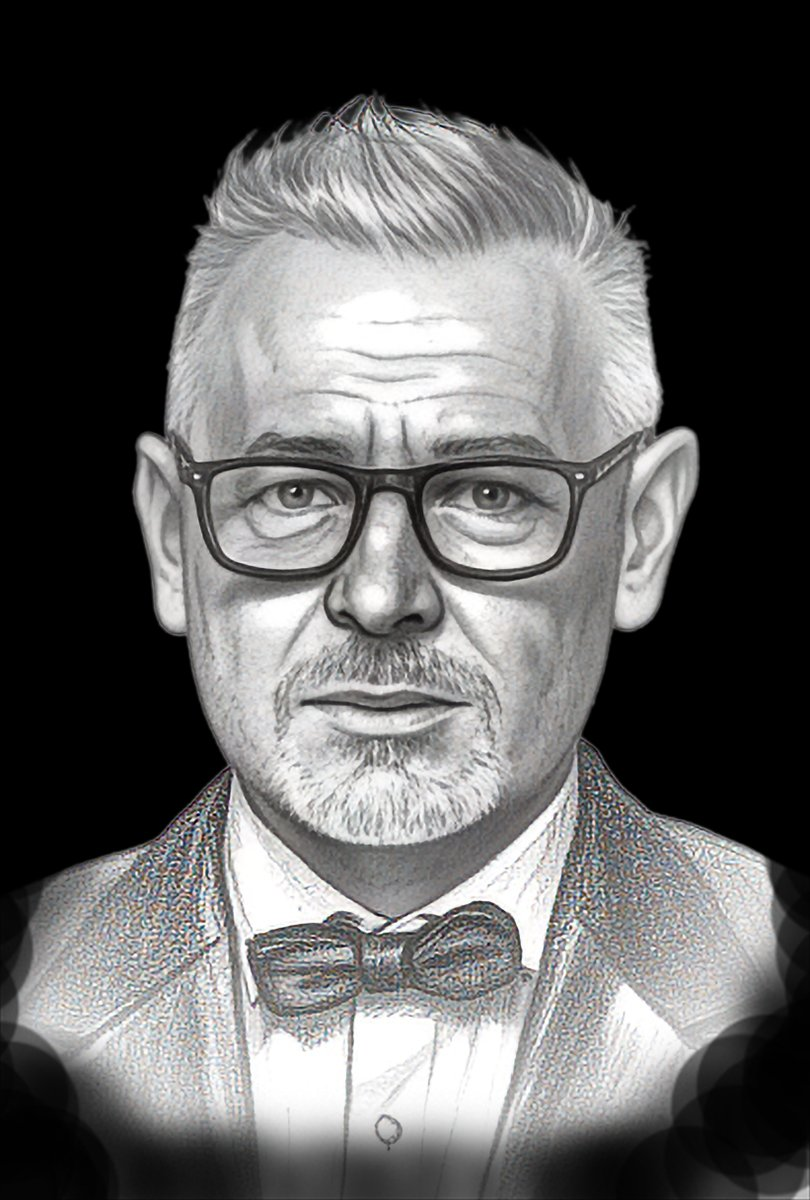
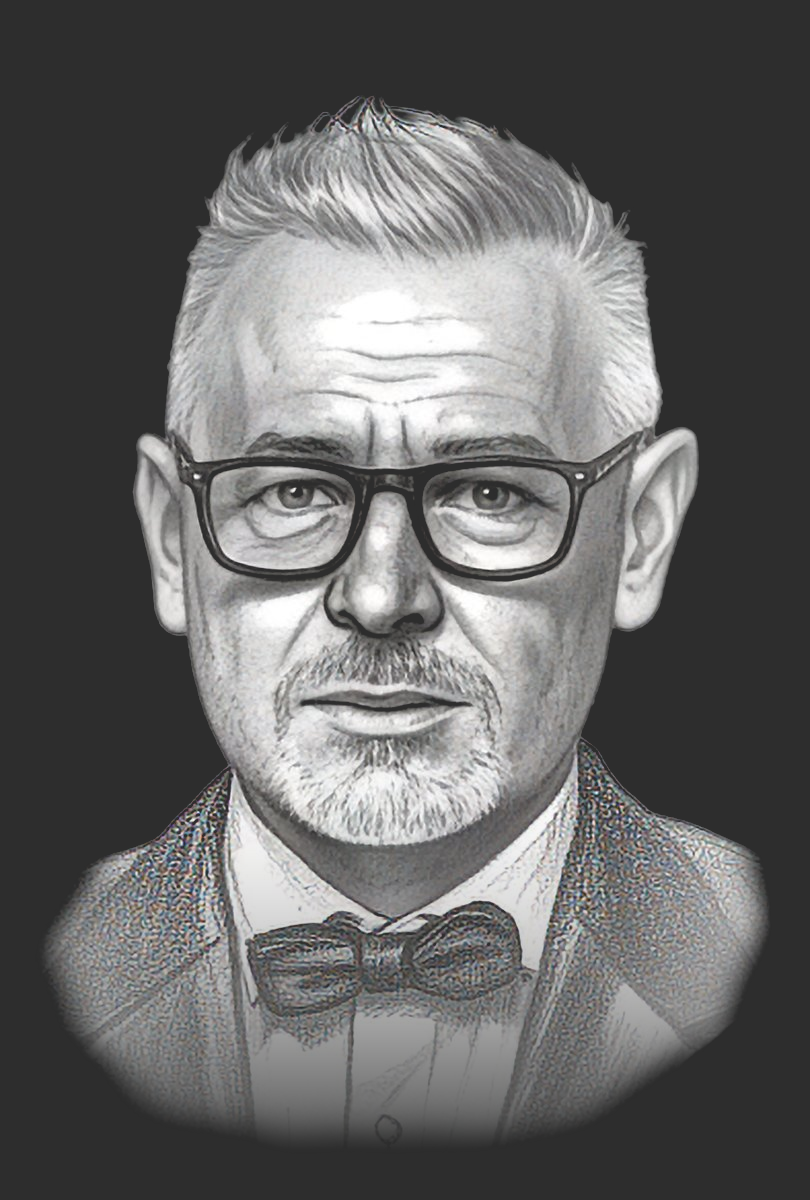
Add files via upload

diff --git a/style.css b/style.css
@@ -515,7 +515,7 @@ footer {
 .team-photo-wrap {
     width: 100%;
     overflow: hidden;
-    background: #000;
+    background: #2D2D2D;
 }
 .team-photo {
     width: 100%;
